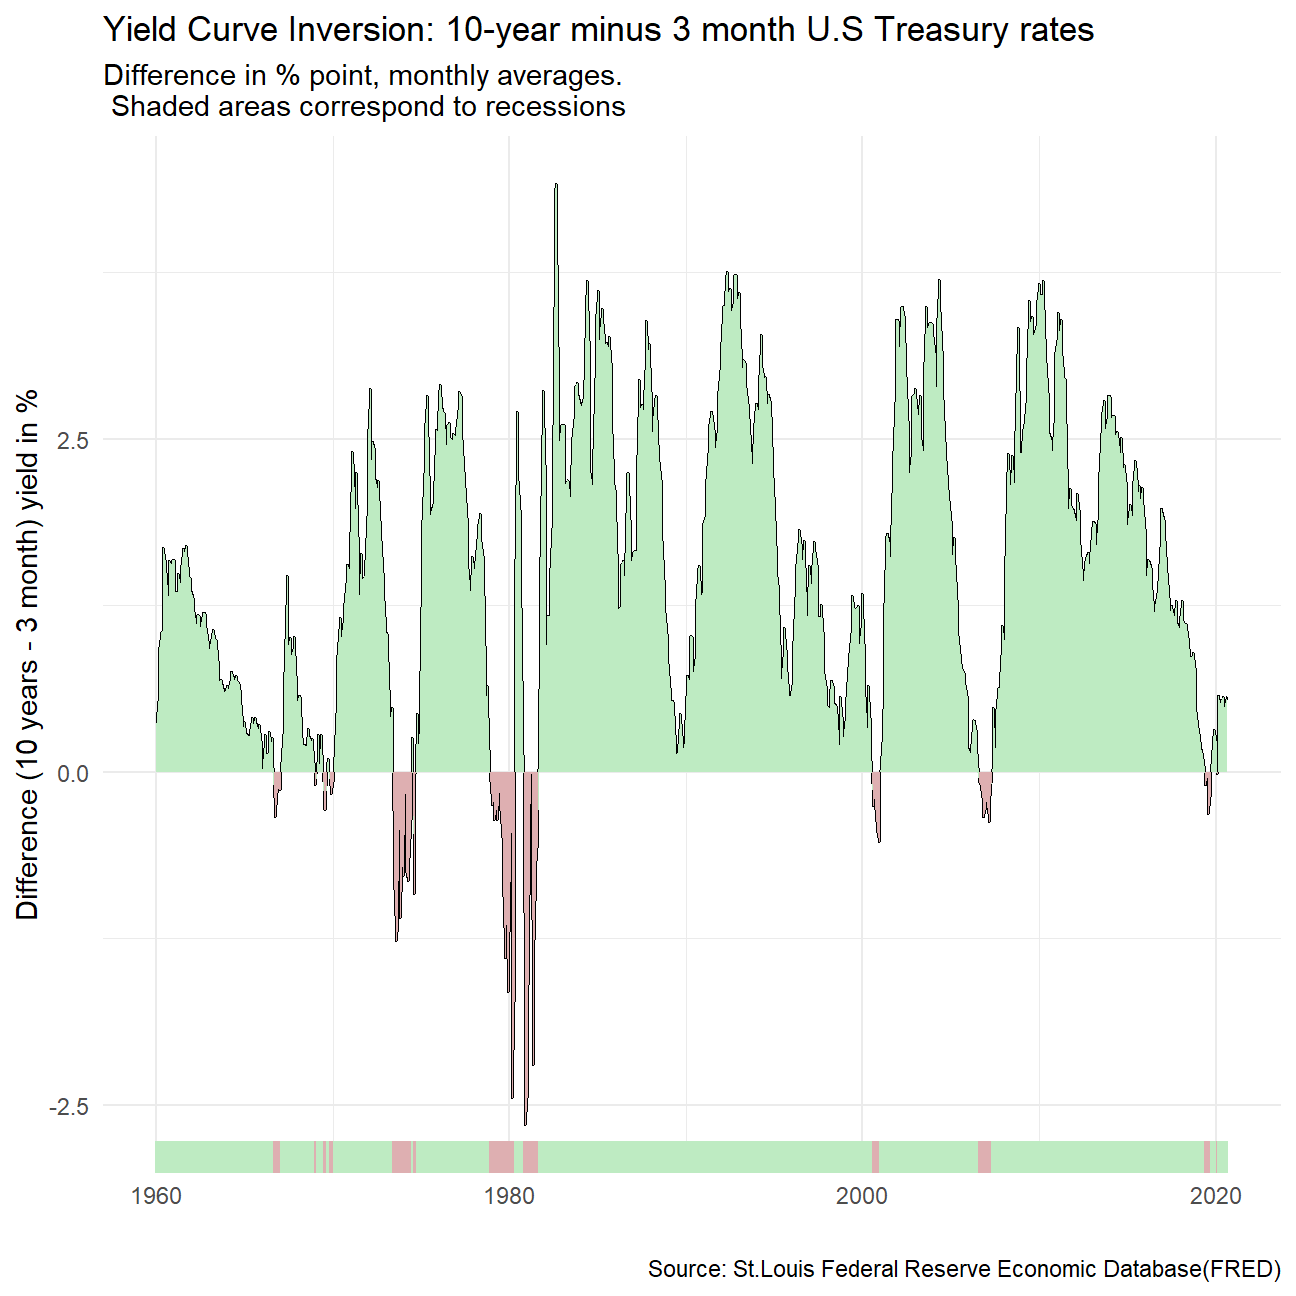
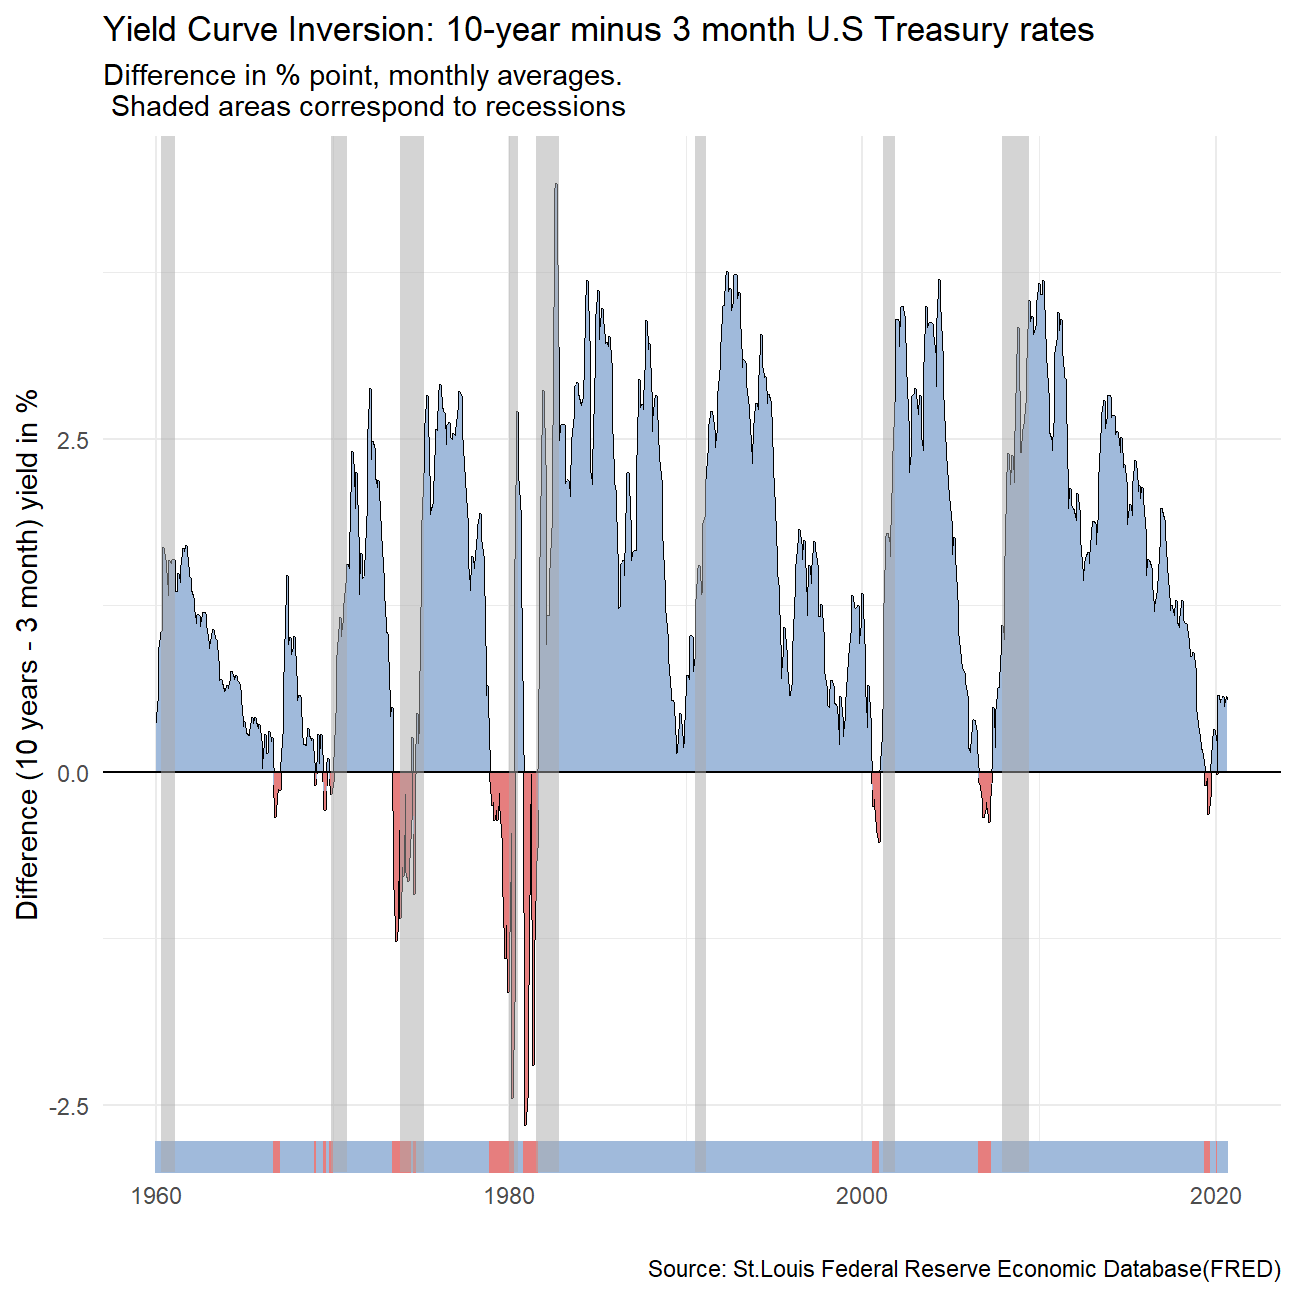
ccc

Changed region(s): [[0.1235, 0.0926, 0.9568, 0.9259]]

diff --git a/public/blogs/blog1/index.html b/public/blogs/blog1/index.html
@@ -235,30 +235,16 @@ Month_Year_1999</code></pre>
 <pre class="r"><code># get US recession dates after 1946 from Wikipedia 
 # https://en.wikipedia.org/wiki/List_of_recessions_in_the_United_States
 
+#1. Setup data for US recessions 
 recessions &lt;- tibble(
-  from = c(&quot;1948-11-01&quot;, &quot;1953-07-01&quot;, &quot;1957-08-01&quot;, &quot;1960-04-01&quot;, &quot;1969-12-01&quot;, &quot;1973-11-01&quot;, &quot;1980-01-01&quot;,&quot;1981-07-01&quot;, &quot;1990-07-01&quot;, &quot;2001-03-01&quot;, &quot;2007-12-01&quot;),  
-  to = c(&quot;1949-10-01&quot;, &quot;1954-05-01&quot;, &quot;1958-04-01&quot;, &quot;1961-02-01&quot;, &quot;1970-11-01&quot;, &quot;1975-03-01&quot;, &quot;1980-07-01&quot;, &quot;1982-11-01&quot;, &quot;1991-03-01&quot;, &quot;2001-11-01&quot;, &quot;2009-06-01&quot;) 
+  from = c(&quot;1960-04-01&quot;, &quot;1969-12-01&quot;, &quot;1973-11-01&quot;, &quot;1980-01-01&quot;,&quot;1981-07-01&quot;, &quot;1990-07-01&quot;, &quot;2001-03-01&quot;, &quot;2007-12-01&quot;),  
+  to = c(&quot;1961-02-01&quot;, &quot;1970-11-01&quot;, &quot;1975-03-01&quot;, &quot;1980-07-01&quot;, &quot;1982-11-01&quot;, &quot;1991-03-01&quot;, &quot;2001-11-01&quot;, &quot;2009-06-01&quot;) 
   )  %&gt;% 
   mutate(From = ymd(from), 
          To=ymd(to),
          duration_days = To-From)
 
-recessions</code></pre>
-<pre><code>## # A tibble: 11 x 5
-##    from       to         From       To         duration_days
-##    &lt;chr&gt;      &lt;chr&gt;      &lt;date&gt;     &lt;date&gt;     &lt;drtn&gt;       
-##  1 1948-11-01 1949-10-01 1948-11-01 1949-10-01 334 days     
-##  2 1953-07-01 1954-05-01 1953-07-01 1954-05-01 304 days     
-##  3 1957-08-01 1958-04-01 1957-08-01 1958-04-01 243 days     
-##  4 1960-04-01 1961-02-01 1960-04-01 1961-02-01 306 days     
-##  5 1969-12-01 1970-11-01 1969-12-01 1970-11-01 335 days     
-##  6 1973-11-01 1975-03-01 1973-11-01 1975-03-01 485 days     
-##  7 1980-01-01 1980-07-01 1980-01-01 1980-07-01 182 days     
-##  8 1981-07-01 1982-11-01 1981-07-01 1982-11-01 488 days     
-##  9 1990-07-01 1991-03-01 1990-07-01 1991-03-01 243 days     
-## 10 2001-03-01 2001-11-01 2001-03-01 2001-11-01 245 days     
-## 11 2007-12-01 2009-06-01 2007-12-01 2009-06-01 548 days</code></pre>
-<pre class="r"><code>yield_curve$maturity = NULL
+yield_curve$maturity = NULL
 yield_curve$symbol = NULL
 yield_curve$day = NULL
 Yield_10Y_3M &lt;- yield_curve %&gt;% 
@@ -270,27 +256,27 @@ colnames(Yield_10Y_3M) &lt;- c(&quot;date&quot;, &quot;year&quot;, &quot;month&q
 Yield_10Y_3M &lt;- Yield_10Y_3M %&gt;% 
                 mutate(difference = TNote_10y - TBill_3M) %&gt;% 
                 mutate(change = if_else(difference&gt;=0, &quot;Above&quot;, &quot;Below&quot;)) %&gt;%
-                mutate(rug_colour = if_else(change==&quot;Below&quot;,&quot;#DEAFB1&quot;,&quot;#BEEBC2&quot;))
+                mutate(Colour = if_else(change==&quot;Below&quot;,&quot;#e67e7e&quot;,&quot;#a0badb&quot;))
 
 #After treating the data, we plot the graph, divided by year 
 Diff_Graph &lt;- ggplot(Yield_10Y_3M, aes(x = date,y= difference)) +
   geom_line()+
-   #No we fill the area between the two plots by using geom_ribbon
+  #3. Plot the spread between 30 years and 3 months as a blue/red ribbon, based on whether the spread is positive (blue) or negative(red)
   geom_ribbon(aes(ymin = 0, ymax = pmin(0,difference), fill = &quot;Above&quot;)) + 
   geom_ribbon(aes(ymin = difference, ymax = pmin(0,difference), fill = &quot;Below&quot;))+
-  geom_rug(color=Yield_10Y_3M$rug_colour,sides=&quot;b&quot;)+
-  scale_fill_manual(values = c(&quot;#DEAFB1&quot;,&quot;#BEEBC2&quot;,&quot;grey&quot;,&quot;white&quot;))+
+  geom_rug(color=Yield_10Y_3M$Colour,sides=&quot;b&quot;)+
+  scale_fill_manual(values = c(&quot;#e67e7e&quot;,&quot;#a0badb&quot;,&quot;grey&quot;,&quot;white&quot;))+
   theme_bw()+
-  #scale_x_continuous(breaks=seq(13, 53, 13))+
-  #scale_y_continuous(labels = scales::percent_format(accuracy = 1)) + 
-  #In these three lines we change and customize the theme used
   theme(axis.ticks = element_blank())+
   theme(legend.position = &quot;none&quot;) + 
   theme(panel.border = element_blank())+
-  labs(x = &quot;&quot;, y = &quot;Difference (10 years - 3 month) yield in %&quot;, title = &quot;Yield Curve Inversion: 10-year minus 3 month U.S Treasury rates&quot;, subtitle = &quot;Difference in % point, monthly averages.\n Shaded areas correspond to recessions&quot;, caption = &quot;Source: St.Louis Federal Reserve Economic Database(FRED)&quot;)
-
+  labs(x = &quot;&quot;, y = &quot;Difference (10 years - 3 month) yield in %&quot;, title = &quot;Yield Curve Inversion: 10-year minus 3 month U.S Treasury rates&quot;, subtitle = &quot;Difference in % point, monthly averages.\n Shaded areas correspond to recessions&quot;, caption = &quot;Source: St.Louis Federal Reserve Economic Database(FRED)&quot;)+
+  geom_hline(yintercept=0)+
+  #2. Superimpose recessions as the grey areas in our plot
+  geom_rect(data=recessions, inherit.aes=F, aes(xmin=From, xmax=To, ymin=-Inf, ymax=+Inf), fill=&#39;darkgray&#39;, alpha=0.5) 
 Diff_Graph</code></pre>
 <p><img src="/blogs/blog1_files/figure-html/setup_US-recessions-1.png" width="648" style="display: block; margin: auto;" /></p>
+<p>```</p>
 </div>
 </div>
 

diff --git a/content/blogs/blog1.html b/content/blogs/blog1.html
@@ -173,30 +173,16 @@ Month_Year_1999</code></pre>
 <pre class="r"><code># get US recession dates after 1946 from Wikipedia 
 # https://en.wikipedia.org/wiki/List_of_recessions_in_the_United_States
 
+#1. Setup data for US recessions 
 recessions &lt;- tibble(
-  from = c(&quot;1948-11-01&quot;, &quot;1953-07-01&quot;, &quot;1957-08-01&quot;, &quot;1960-04-01&quot;, &quot;1969-12-01&quot;, &quot;1973-11-01&quot;, &quot;1980-01-01&quot;,&quot;1981-07-01&quot;, &quot;1990-07-01&quot;, &quot;2001-03-01&quot;, &quot;2007-12-01&quot;),  
-  to = c(&quot;1949-10-01&quot;, &quot;1954-05-01&quot;, &quot;1958-04-01&quot;, &quot;1961-02-01&quot;, &quot;1970-11-01&quot;, &quot;1975-03-01&quot;, &quot;1980-07-01&quot;, &quot;1982-11-01&quot;, &quot;1991-03-01&quot;, &quot;2001-11-01&quot;, &quot;2009-06-01&quot;) 
+  from = c(&quot;1960-04-01&quot;, &quot;1969-12-01&quot;, &quot;1973-11-01&quot;, &quot;1980-01-01&quot;,&quot;1981-07-01&quot;, &quot;1990-07-01&quot;, &quot;2001-03-01&quot;, &quot;2007-12-01&quot;),  
+  to = c(&quot;1961-02-01&quot;, &quot;1970-11-01&quot;, &quot;1975-03-01&quot;, &quot;1980-07-01&quot;, &quot;1982-11-01&quot;, &quot;1991-03-01&quot;, &quot;2001-11-01&quot;, &quot;2009-06-01&quot;) 
   )  %&gt;% 
   mutate(From = ymd(from), 
          To=ymd(to),
          duration_days = To-From)
 
-recessions</code></pre>
-<pre><code>## # A tibble: 11 x 5
-##    from       to         From       To         duration_days
-##    &lt;chr&gt;      &lt;chr&gt;      &lt;date&gt;     &lt;date&gt;     &lt;drtn&gt;       
-##  1 1948-11-01 1949-10-01 1948-11-01 1949-10-01 334 days     
-##  2 1953-07-01 1954-05-01 1953-07-01 1954-05-01 304 days     
-##  3 1957-08-01 1958-04-01 1957-08-01 1958-04-01 243 days     
-##  4 1960-04-01 1961-02-01 1960-04-01 1961-02-01 306 days     
-##  5 1969-12-01 1970-11-01 1969-12-01 1970-11-01 335 days     
-##  6 1973-11-01 1975-03-01 1973-11-01 1975-03-01 485 days     
-##  7 1980-01-01 1980-07-01 1980-01-01 1980-07-01 182 days     
-##  8 1981-07-01 1982-11-01 1981-07-01 1982-11-01 488 days     
-##  9 1990-07-01 1991-03-01 1990-07-01 1991-03-01 243 days     
-## 10 2001-03-01 2001-11-01 2001-03-01 2001-11-01 245 days     
-## 11 2007-12-01 2009-06-01 2007-12-01 2009-06-01 548 days</code></pre>
-<pre class="r"><code>yield_curve$maturity = NULL
+yield_curve$maturity = NULL
 yield_curve$symbol = NULL
 yield_curve$day = NULL
 Yield_10Y_3M &lt;- yield_curve %&gt;% 
@@ -208,26 +194,26 @@ colnames(Yield_10Y_3M) &lt;- c(&quot;date&quot;, &quot;year&quot;, &quot;month&q
 Yield_10Y_3M &lt;- Yield_10Y_3M %&gt;% 
                 mutate(difference = TNote_10y - TBill_3M) %&gt;% 
                 mutate(change = if_else(difference&gt;=0, &quot;Above&quot;, &quot;Below&quot;)) %&gt;%
-                mutate(rug_colour = if_else(change==&quot;Below&quot;,&quot;#DEAFB1&quot;,&quot;#BEEBC2&quot;))
+                mutate(Colour = if_else(change==&quot;Below&quot;,&quot;#e67e7e&quot;,&quot;#a0badb&quot;))
 
 #After treating the data, we plot the graph, divided by year 
 Diff_Graph &lt;- ggplot(Yield_10Y_3M, aes(x = date,y= difference)) +
   geom_line()+
-   #No we fill the area between the two plots by using geom_ribbon
+  #3. Plot the spread between 30 years and 3 months as a blue/red ribbon, based on whether the spread is positive (blue) or negative(red)
   geom_ribbon(aes(ymin = 0, ymax = pmin(0,difference), fill = &quot;Above&quot;)) + 
   geom_ribbon(aes(ymin = difference, ymax = pmin(0,difference), fill = &quot;Below&quot;))+
-  geom_rug(color=Yield_10Y_3M$rug_colour,sides=&quot;b&quot;)+
-  scale_fill_manual(values = c(&quot;#DEAFB1&quot;,&quot;#BEEBC2&quot;,&quot;grey&quot;,&quot;white&quot;))+
+  geom_rug(color=Yield_10Y_3M$Colour,sides=&quot;b&quot;)+
+  scale_fill_manual(values = c(&quot;#e67e7e&quot;,&quot;#a0badb&quot;,&quot;grey&quot;,&quot;white&quot;))+
   theme_bw()+
-  #scale_x_continuous(breaks=seq(13, 53, 13))+
-  #scale_y_continuous(labels = scales::percent_format(accuracy = 1)) + 
-  #In these three lines we change and customize the theme used
   theme(axis.ticks = element_blank())+
   theme(legend.position = &quot;none&quot;) + 
   theme(panel.border = element_blank())+
-  labs(x = &quot;&quot;, y = &quot;Difference (10 years - 3 month) yield in %&quot;, title = &quot;Yield Curve Inversion: 10-year minus 3 month U.S Treasury rates&quot;, subtitle = &quot;Difference in % point, monthly averages.\n Shaded areas correspond to recessions&quot;, caption = &quot;Source: St.Louis Federal Reserve Economic Database(FRED)&quot;)
-
+  labs(x = &quot;&quot;, y = &quot;Difference (10 years - 3 month) yield in %&quot;, title = &quot;Yield Curve Inversion: 10-year minus 3 month U.S Treasury rates&quot;, subtitle = &quot;Difference in % point, monthly averages.\n Shaded areas correspond to recessions&quot;, caption = &quot;Source: St.Louis Federal Reserve Economic Database(FRED)&quot;)+
+  geom_hline(yintercept=0)+
+  #2. Superimpose recessions as the grey areas in our plot
+  geom_rect(data=recessions, inherit.aes=F, aes(xmin=From, xmax=To, ymin=-Inf, ymax=+Inf), fill=&#39;darkgray&#39;, alpha=0.5) 
 Diff_Graph</code></pre>
 <p><img src="/blogs/blog1_files/figure-html/setup_US-recessions-1.png" width="648" style="display: block; margin: auto;" /></p>
+<p>```</p>
 </div>
 </div>
